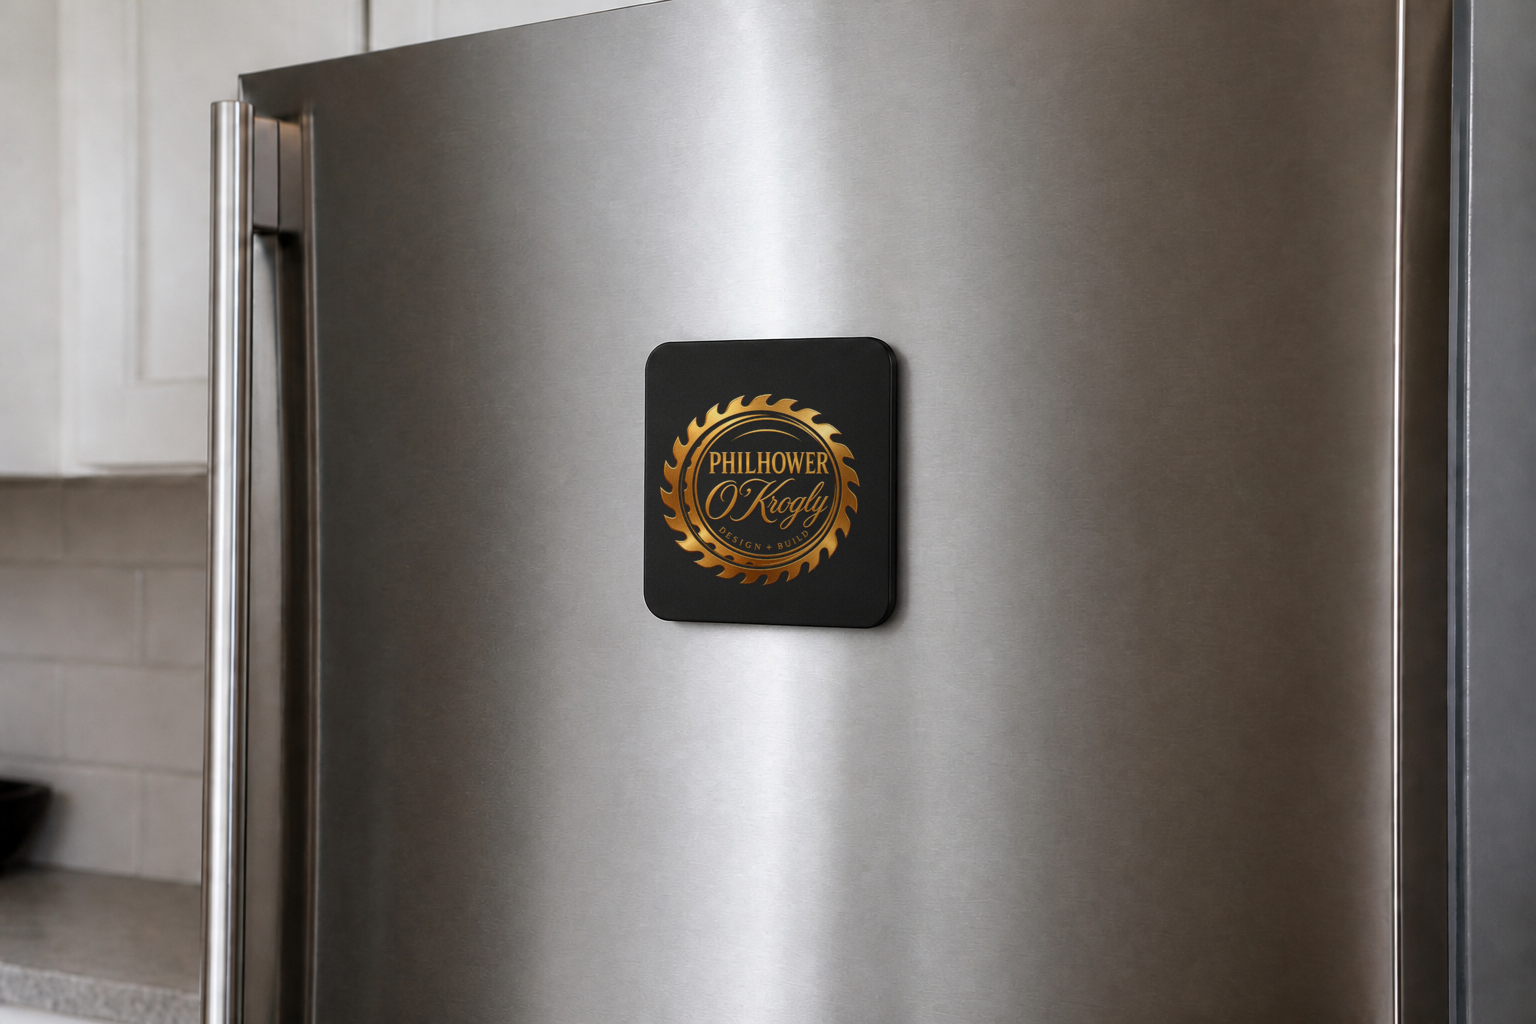
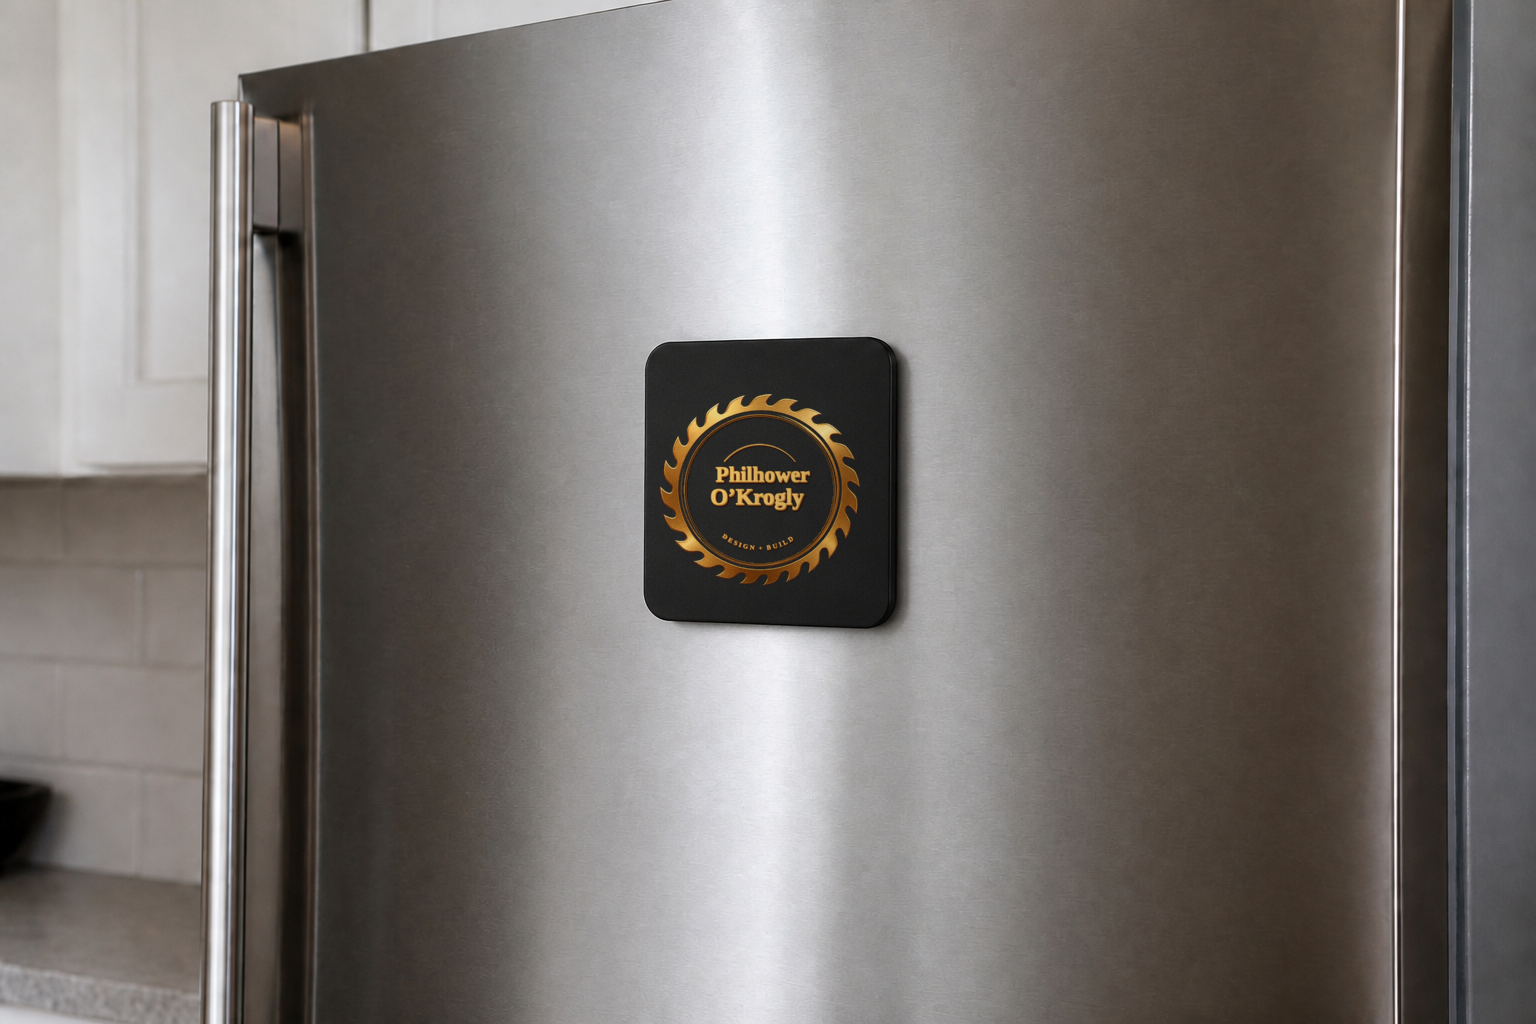
Set Philhower & O’Krogly in uniform modern Times (Tinos).
Both names now share Tinos Bold on the Hills blade seal; DESIGN + BUILD
uses the same face. Theme 1.0.21 / brands-print-14.

Changed region(s): [[0.4375, 0.4062, 0.5625, 0.5625]]

diff --git a/dphilhower-studio-wp/preview/work/philhower-okrogly/index.html b/dphilhower-studio-wp/preview/work/philhower-okrogly/index.html
@@ -4,7 +4,7 @@
   <meta charset="utf-8">
   <meta name="viewport" content="width=device-width, initial-scale=1">
   <title>Philhower &amp; O’Krogly — D Philhower Studio</title>
-  <meta name="description" content="Philhower &amp; O’Krogly Design + Build by D Philhower Studio: built like Service The Hills — bronze blade, serif PHILHOWER, script O’Krogly, DESIGN + BUILD.">
+  <meta name="description" content="Philhower &amp; O’Krogly Design + Build by D Philhower Studio: Hills saw-blade seal with both names in the same modern Times serif.">
   <link rel="icon" href="../../img/favicon.svg" type="image/svg+xml">
   <link rel="preconnect" href="https://fonts.googleapis.com">
   <link rel="preconnect" href="https://fonts.gstatic.com" crossorigin>
@@ -31,7 +31,7 @@
       <p>Design + Build</p>
     </header>
     <div class="case-hero">
-      <img src="../../img/pok-hero.png" alt="Philhower &amp; O’Krogly lockup: Hills saw blade like Service The Hills, PHILHOWER in serif, O’Krogly in script, DESIGN + BUILD" width="1536" height="1024">
+      <img src="../../img/pok-hero.png" alt="Philhower &amp; O’Krogly lockup: Hills saw blade with Philhower and O’Krogly in the same modern Times serif, DESIGN + BUILD" width="1536" height="1024">
     </div>
     <article class="case-body">
       <ul class="case-meta">
@@ -41,8 +41,8 @@
         <li><strong>Place</strong><br>Northern New Jersey</li>
       </ul>
       <div class="entry-content">
-        <p>Built like Service The Hills: bronze saw blade, double ring, top arc. PHILHOWER sits in an inscriptional serif. O’Krogly sits in a roundhand. DESIGN + BUILD runs the bottom arc. A quiet cyan PK diamond sits under the top arc — modern Old English, not the hero. Same blade family, different names.</p>
-        <p>One lockup. Polo, van, yard, card, fridge. Black field so gold reads. Blue is only the diamond.</p>
+        <p>Same seal as Service The Hills: official bronze saw blade, double ring, top arcs. Philhower and O’Krogly share one modern Times serif — same size, same weight. DESIGN + BUILD on the bottom arc in the same face. Same metal — uniform type.</p>
+        <p>One lockup. Polo, van, yard, card, fridge. Black field so gold reads.</p>
       </div>
     </article>
     <section class="brand-kit">
@@ -56,7 +56,7 @@
         </figure>
         <figure>
           <img src="../../img/pok-print-shirt.png" alt="Black polo with the Philhower &amp; O’Krogly saw-blade lockup centered on the chest" width="1536" height="1024">
-          <figcaption><strong>Polo</strong> Center chest. Same Hills blade hierarchy: PHILHOWER, O’Krogly, DESIGN + BUILD.</figcaption>
+          <figcaption><strong>Polo</strong> Center chest. Same Hills blade; both names in one modern Times serif.</figcaption>
         </figure>
         <figure>
           <img src="../../img/pok-print-van.png" alt="Matte black van with the Philhower &amp; O’Krogly saw-blade lockup on the side" width="1536" height="1024">
@@ -68,7 +68,7 @@
         </figure>
         <figure>
           <img src="../../img/pok-print-card.png" alt="Black business cards with the Philhower &amp; O’Krogly saw-blade lockup" width="1536" height="1024">
-          <figcaption><strong>Cards</strong> Black stock. Blade, PHILHOWER, O’Krogly, DESIGN + BUILD — same Hills hierarchy.</figcaption>
+          <figcaption><strong>Cards</strong> Black stock. Blade and uniform Times names — same lockup as the shirt.</figcaption>
         </figure>
         <figure>
           <img src="../../img/pok-print-magnet.png" alt="Fridge magnet with the Philhower &amp; O’Krogly saw-blade lockup" width="1536" height="1024">

diff --git a/dphilhower-studio-wp/theme/dphilhower-studio/style.css b/dphilhower-studio-wp/theme/dphilhower-studio/style.css
@@ -4,7 +4,7 @@ Theme URI: https://dphilhower.com
 Author: D Philhower Studio
 Author URI: https://dphilhower.com
 Description: Custom graphic design studio theme for D Philhower Studio at dphilhower.com — portfolio, services, about, and project inquiries. Activate the theme to load demo pages and work samples.
-Version: 1.0.19
+Version: 1.0.21
 Requires at least: 6.4
 Tested up to: 6.8
 Requires PHP: 7.4

diff --git a/dphilhower-studio-wp/theme/dphilhower-studio/inc/brand-kits.php b/dphilhower-studio-wp/theme/dphilhower-studio/inc/brand-kits.php
@@ -289,7 +289,7 @@ function dps_brand_kits() {
 		'philhower-okrogly'        => array(
 			'label'  => __( 'Print system', 'dphilhower-studio' ),
 			'title'  => __( 'One lockup, five scales', 'dphilhower-studio' ),
-			'intro'  => __( 'Built like Service The Hills: bronze blade, double ring, serif PHILHOWER, script O’Krogly, DESIGN + BUILD on the bottom arc. Quiet cyan PK diamond. Polo, van, yard, card, fridge — one lockup.', 'dphilhower-studio' ),
+			'intro'  => __( 'Same seal as Service The Hills: official bronze blade, double ring. Philhower and O’Krogly share one modern Times serif — same size and weight. DESIGN + BUILD on the bottom arc. Polo, van, yard, card, fridge — one lockup.', 'dphilhower-studio' ),
 			'pieces' => array(
 				array(
 					'file'    => 'pok-seal-hero.png',
@@ -301,7 +301,7 @@ function dps_brand_kits() {
 					'file'    => 'pok-print-shirt.png',
 					'alt'     => __( 'Black polo with the Philhower & O’Krogly saw-blade lockup centered on the chest', 'dphilhower-studio' ),
 					'heading' => __( 'Polo', 'dphilhower-studio' ),
-					'story'   => __( 'Center chest. Same Hills blade hierarchy: PHILHOWER, O’Krogly, DESIGN + BUILD.', 'dphilhower-studio' ),
+					'story'   => __( 'Center chest. Same Hills blade; both names in one modern Times serif.', 'dphilhower-studio' ),
 				),
 				array(
 					'file'    => 'pok-print-van.png',
@@ -319,7 +319,7 @@ function dps_brand_kits() {
 					'file'    => 'pok-print-card.png',
 					'alt'     => __( 'Black business cards with the Philhower & O’Krogly saw-blade lockup', 'dphilhower-studio' ),
 					'heading' => __( 'Cards', 'dphilhower-studio' ),
-					'story'   => __( 'Black stock. Blade, PHILHOWER, O’Krogly, DESIGN + BUILD — same Hills hierarchy.', 'dphilhower-studio' ),
+					'story'   => __( 'Black stock. Blade and uniform Times names — same lockup as the shirt.', 'dphilhower-studio' ),
 				),
 				array(
 					'file'    => 'pok-print-magnet.png',

diff --git a/dphilhower-studio-wp/theme/dphilhower-studio/inc/setup-content.php b/dphilhower-studio-wp/theme/dphilhower-studio/inc/setup-content.php
@@ -326,7 +326,7 @@ function dps_seed_demo_content( $force = false ) {
 			'services' => 'Identity · embroidery · vehicle · signage',
 			'year'     => '2025',
 			'location' => 'Northern New Jersey',
-			'content'  => '<p>Built like Service The Hills: bronze saw blade, double ring, top arc. PHILHOWER sits in an inscriptional serif. O’Krogly sits in a roundhand. DESIGN + BUILD runs the bottom arc. A quiet cyan PK diamond sits under the top arc — modern Old English, not the hero. Same blade family, different names.</p><p>One lockup. Polo, van, yard, card, fridge. Black field so gold reads. Blue is only the diamond.</p>',
+			'content'  => '<p>Same seal as Service The Hills: official bronze saw blade, double ring, top arcs. Philhower and O’Krogly share one modern Times serif — same size, same weight. DESIGN + BUILD on the bottom arc in the same face. Same metal — uniform type.</p><p>One lockup. Polo, van, yard, card, fridge. Black field so gold reads.</p>',
 		),
 		array(
 			'slug'     => 'cafe-robust',
@@ -461,7 +461,7 @@ function dps_seed_demo_content( $force = false ) {
 	flush_rewrite_rules();
 
 	update_option( 'dps_demo_seeded', DPS_VERSION );
-	update_option( 'dps_images_version', 'brands-print-12' );
+	update_option( 'dps_images_version', 'brands-print-14' );
 	return true;
 }
 

diff --git a/dphilhower-studio-wp/theme/dphilhower-studio/functions.php b/dphilhower-studio-wp/theme/dphilhower-studio/functions.php
@@ -9,7 +9,7 @@ if ( ! defined( 'ABSPATH' ) ) {
 	exit;
 }
 
-define( 'DPS_VERSION', '1.0.19' );
+define( 'DPS_VERSION', '1.0.21' );
 define( 'DPS_DIR', get_template_directory() );
 define( 'DPS_URI', get_template_directory_uri() );
 
@@ -164,14 +164,14 @@ function dps_maybe_upgrade_images() {
 	if ( 'dphilhower-studio' !== get_stylesheet() ) {
 		return;
 	}
-	if ( get_option( 'dps_images_version' ) === 'brands-print-12' ) {
+	if ( get_option( 'dps_images_version' ) === 'brands-print-14' ) {
 		return;
 	}
 	if ( ! get_option( 'dps_demo_seeded' ) ) {
 		return;
 	}
 	dps_seed_demo_content( true );
-	update_option( 'dps_images_version', 'brands-print-12' );
+	update_option( 'dps_images_version', 'brands-print-14' );
 }
 
 /**
